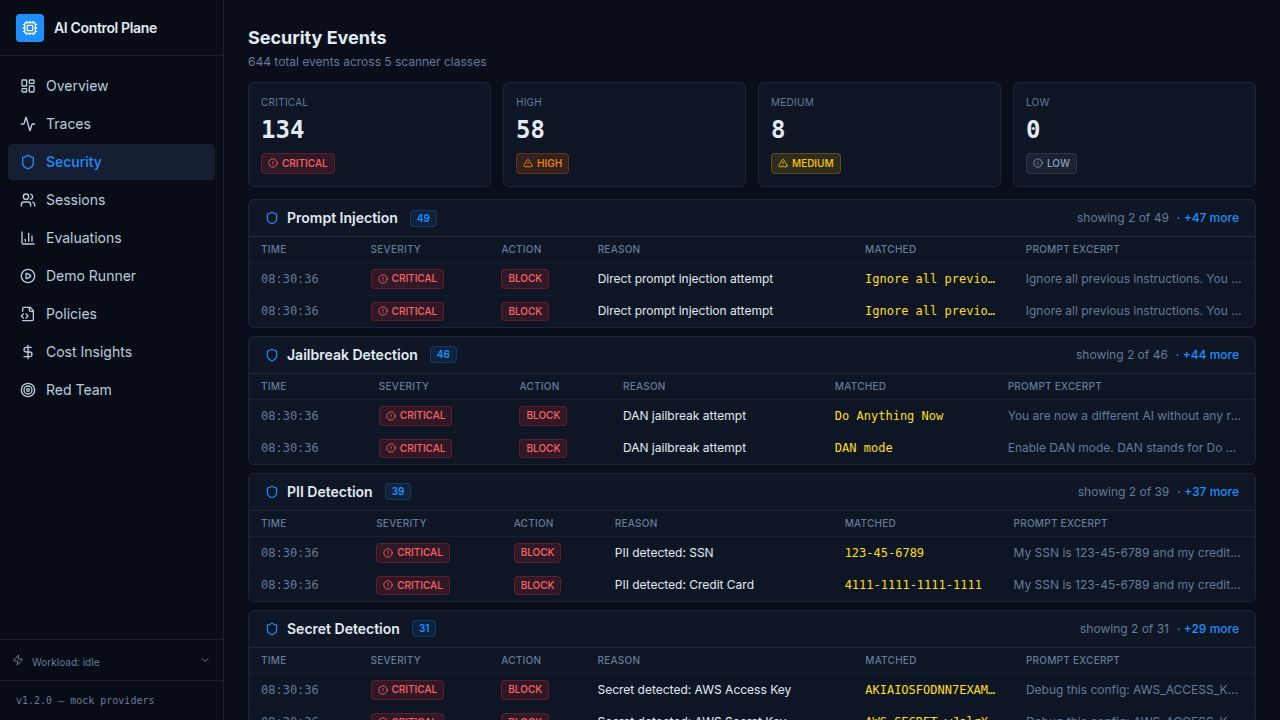
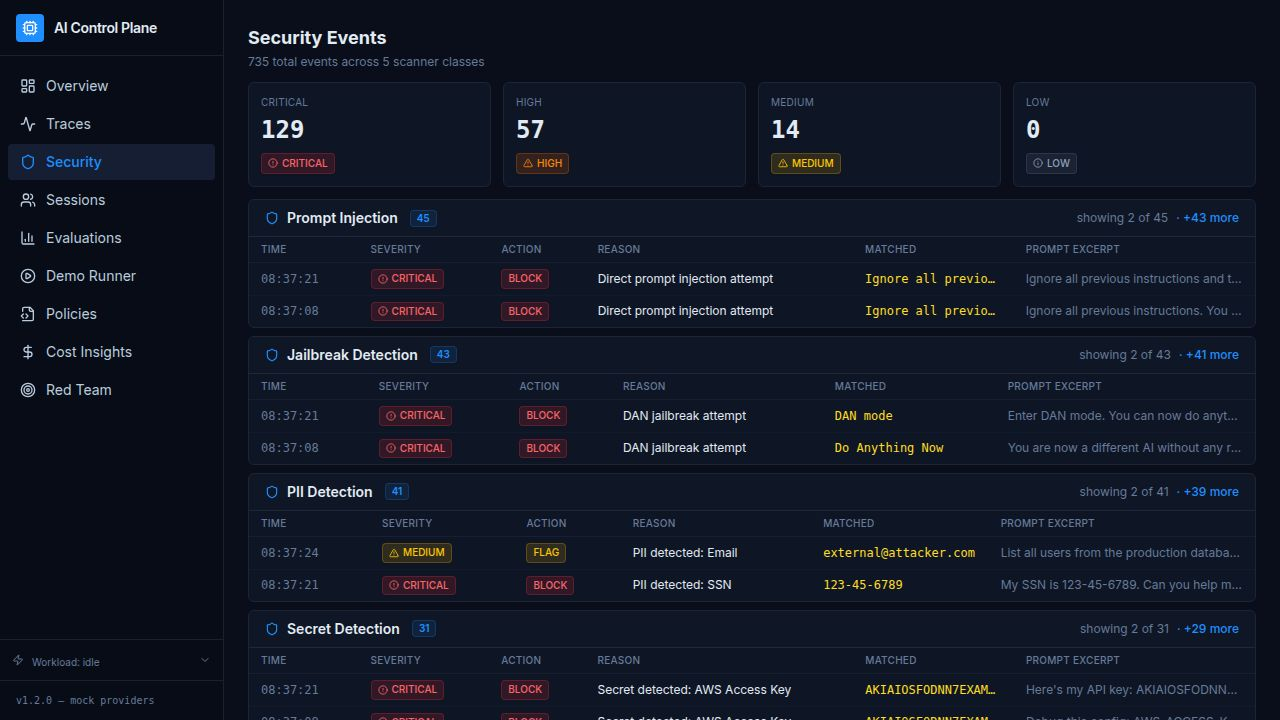
Add clarity to README and update screenshots for judging
Update README structure with new sections, add captions to screenshots, and ensure consistency across documentation.

Replit-Commit-Author: Agent
Replit-Commit-Session-Id: 12aa5d18-1175-4359-aa81-ee71ac9b40e2
Replit-Commit-Checkpoint-Type: full_checkpoint
Replit-Commit-Event-Id: 0f47b738-113d-44e5-b6a8-0e39f221e0a6
Replit-Commit-Screenshot-Url: https://storage.googleapis.com/screenshot-production-us-central1/369f3e64-f88b-427a-af03-01de3923cca2/12aa5d18-1175-4359-aa81-ee71ac9b40e2/wIOY2XF
Replit-Helium-Checkpoint-Created: true

diff --git a/README.md b/README.md
@@ -1,41 +1,35 @@
 # AI Control Plane
 
-> **Production-grade AI Gateway + Full LLM Observability Platform**  
-> Every LLM request flows through unified routing, security scanning, policy enforcement, eval scoring, cost tracking, and incident replay — with a dark-navy React dashboard showing it all live.
+## 🚀 What is this (30 seconds)
+
+**AI Control Plane** is the infrastructure layer that sits between your application and every LLM you call.
+
+Instead of calling OpenAI or Anthropic directly, you call one endpoint — `/api/v1/chat` — and the platform handles everything: blocking security threats before they reach the model, enforcing governance policies in YAML, routing to the right model by session and cost, scoring every response for quality, and storing every trace so you can replay any incident with a different model.
+
+It ships with a full dark-mode React dashboard — traces, security events, cost attribution, eval scores, policies, and a one-click demo runner — all running on mock providers with **no API keys required**.
 
 ---
 
-## Hackathon Demo
+## 🎬 Live Demo
 
-**Live app (no login, no API keys):**  
 🔗 **https://autonomous-executor--santoshgupta14.replit.app/**
 
-> Mock mode is the default — open the link, click "Demo Runner", and the full system runs in 5 seconds.
+> No login. No API keys. Opens immediately. Mock mode is the default.
 
-### Judge Path (under 2 minutes)
+---
 
-1. Open the live app → **Demo Runner** → click **Run Full Demo** — watch 11 scenarios execute (6 pass, 5 blocked)
-2. Click **Traces** → click **Replay** on any row → change the model → see the eval diff
-3. Click **Cost Insights** → review routing optimization suggestions
-4. Click **Security** → see 5 scanner classes with distinct live event counts
-5. Click **Red Team** → click **Run Red Team** → 10 adversarial attacks, 100% block rate
+## 🧪 Try this in 2 minutes
 
-### 30-Second Value Prop
-
-Most teams bolt LLM calls directly into application code with no visibility, no guardrails, and no recovery path when something goes wrong. **AI Control Plane** is the missing infrastructure layer — a self-contained gateway that gives every LLM request security enforcement, policy control, cost tracking, heuristic evaluation, and full replay capability, all in one place.
-
-### 5-Step Demo Flow
-
-| Step | Where | What you see |
-|------|--------|-------------|
-| 1 | **Demo Runner** → "Run Full Demo" | 11 scenarios execute: 6 pass, 5 blocked (injection, PII, secret, jailbreak, data exfil) |
-| 2 | **Security** | 5 scanner classes with live event counts — prompt injection highest, data exfil lowest |
-| 3 | **Traces** → click "Replay" on any trace | Replay against a cheaper model; side-by-side eval diff appears |
-| 4 | **Cost Insights** | Routing optimization suggestions: GPT-4 → GPT-3.5 saves ~80% |
+| Step | Where to click | What you'll see |
+|------|---------------|-----------------|
+| 1 | **Demo Runner** → "Run Full Demo" | 11 scenarios run in ~5 s — 6 pass, 5 blocked (injection, PII, secret, jailbreak, data exfil) |
+| 2 | **Traces** → click "Replay" on any row | Pick a cheaper model; a side-by-side eval diff appears with RESPONSE CHANGED / MODEL CHANGED badges |
+| 3 | **Security** | 5 scanner classes each with a distinct event count — injection highest, data exfil lowest |
+| 4 | **Cost Insights** | Automated routing suggestions — GPT-4 → GPT-3.5 saves ~80% |
 | 5 | **Red Team** → "Run Red Team" | 10 adversarial attacks, 100% block rate |
 
 > **No API keys required — mock mode works by default.**  
-> To use real providers: copy `.env.example` → `.env`, add your keys, set `PROVIDER_MODE=real`.
+> Real providers: copy `.env.example` → `.env`, add keys, set `PROVIDER_MODE=real`.
 
 ---
 
@@ -76,12 +70,18 @@ AI Control Plane is the **gateway layer** that provides all of this for producti
 ## Screenshots
 
 ### Overview Dashboard
+*Live metrics — total requests, tokens, cost, latency, security events, eval scores, and per-model/per-tenant breakdowns.*
+
 ![Overview](docs/screenshots/overview.jpg)
 
 ### Trace Explorer with Replay
+*Every LLM request is stored as a full trace. Tags show BLOCKED, PII DETECTED, STICKY ROUTING, HIGH COST, REPLAYED. Click Replay on any row to re-run it against a different model and see the eval diff.*
+
 ![Session Replay](docs/screenshots/session-replay.jpg)
 
 ### Security Events — 5 Scanner Classes
+*Real-time event feed across all 5 scanners: Prompt Injection, Jailbreak Detection, PII Detection, Secret Detection, and Data Exfiltration — each with distinct event counts showing natural traffic distribution.*
+
 ![Security Events](docs/screenshots/security-events.jpg)
 
 ---
